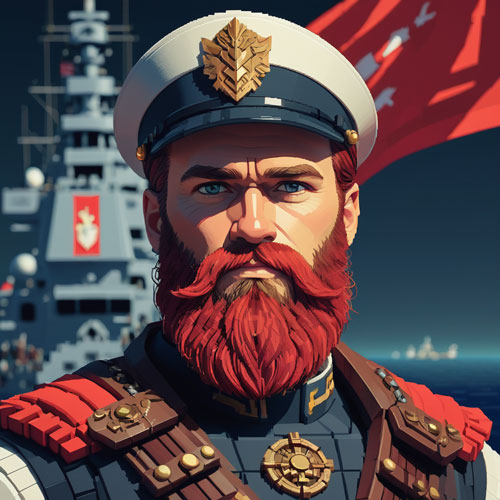
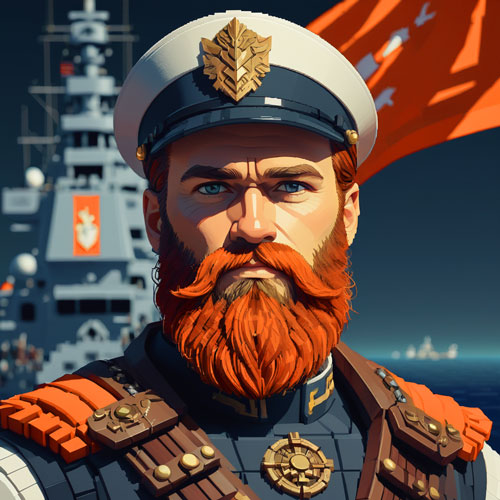
style: updated characters colors
fix: syntax error in quote.js.

diff --git a/src/characters.js b/src/characters.js
@@ -17,9 +17,9 @@ class Char {
 
 export const charObjects = {
   nimitz: new Char('nimitz', 'Douglas Nimitz', nimitz, 'rgb(255, 53, 54)', 'rgba(255, 53, 54, 0.5)'),
-  yamato: new Char('yamato', 'Satoru Yamato', yamato, 'rgb(58, 113, 203)', 'rgba(58, 113, 203, 0.5)'),
-  olafsson: new Char('olafsson', 'Leif Oláfsson', olafsson, 'rgb(143, 202, 94)', 'rgba(143, 202, 94, 0.5)'),
+  yamato: new Char('yamato', 'Satoru Yamato', yamato, 'rgb(7, 89, 201)', 'rgba(7, 89, 201, 0.5)'),
+  olafsson: new Char('olafsson', 'Leif Oláfsson', olafsson, 'rgb(241, 94, 24)', 'rgba(241, 94, 24, 0.5)'),
   violeta: new Char('violeta', 'Violeta Pavlichenko', violeta, 'rgb(244, 195, 67)', 'rgba(244, 195, 67, 0.5)'),
-  rackham: new Char('rackham', 'Jack Rackham', rackham, 'rgb(255, 53, 54)', 'rgba(255, 53, 54, 0.5)'),
-  noronha: new Char('noronha', 'Alberto Noronha', noronha, 'rgb(143, 202, 94)', 'rgba(143, 202, 94, 0.5)'),
+  rackham: new Char('rackham', 'Jack Rackham', rackham, 'rgb(220, 220, 220)', 'rgba(220, 220, 220, 0.5)'),
+  noronha: new Char('noronha', 'Alberto Noronha', noronha, 'rgb(62, 244, 84)', 'rgba(62, 244, 84, 0.5)'),
 }

diff --git a/src/quote.js b/src/quote.js
@@ -43,7 +43,7 @@ export default class Quote {
   static getPreparationQuote(char) {
     const quoteArrays = [];
     Object.values(Quote.placeShip).forEach(lang => quoteArrays.push(lang.preparation[char]));
-    return Quote.replacePlaceholders(Quote.randomize(quoteArrays), ship);
+    return Quote.replacePlaceholders(Quote.randomize(quoteArrays));
   }
 
   static getPlaceShipQuote(char, ship) {
